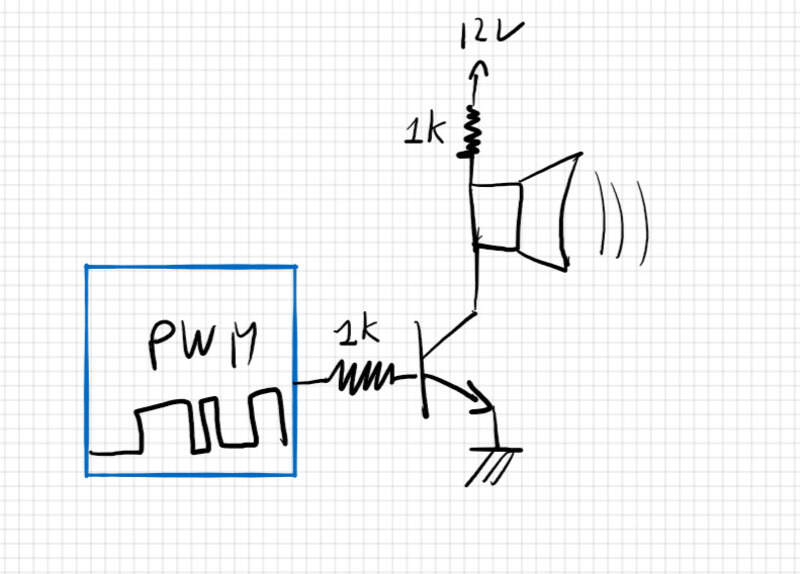
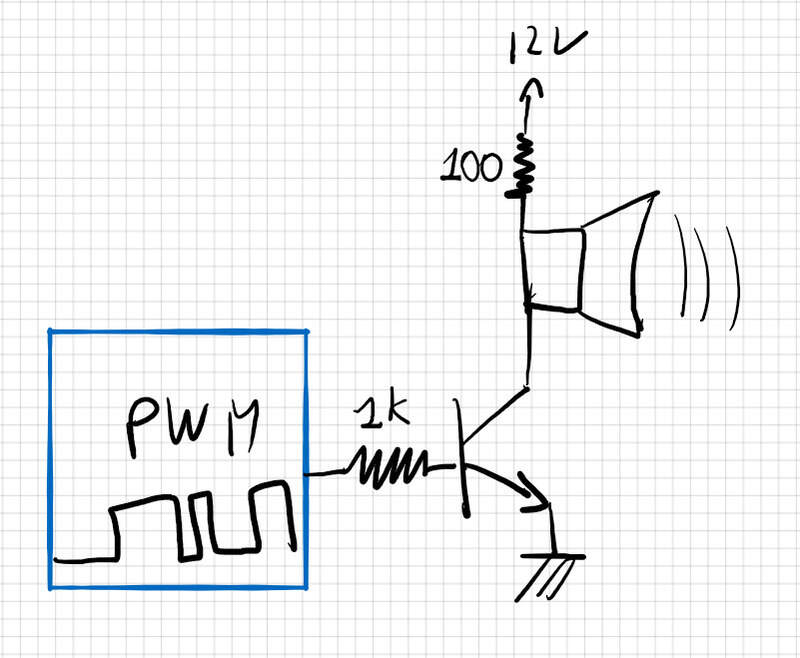
fixed image

diff --git a/docs/modules/module12.md b/docs/modules/module12.md
@@ -211,7 +211,7 @@ Your browser does not support the video tag.
 ### Possible improvement and extension
 With NPN transistors, it would also be possible to multiplex multiple display. We then link each display segments together (a's with a's, b's with b's, ...) and we select the display we want to light up by toggling the corresponding NPN transistor to allow current from the 12V supply to flow. The eye "low-pass filter" will simply let you see all displays light up together even though they toggle real fast. You therefore need 8(7 segments + DP-) +1 per display(selectDisplayPin) pins in total instead of 8 per display.
 
-This requires NPN transitors, as it is impossible to do with PNP (VB should be > 12V which I cannot supply) so I couldn't do it this week but it isn't difficult per se.
+This requires NPN transitors, as it is impossible to do with PNP (VB should be close to 12V which I cannot supply) so I couldn't do it this week but it isn't difficult per se.
 
 
 <figure> <center>
@@ -223,7 +223,7 @@ This requires NPN transitors, as it is impossible to do with PNP (VB should be >
 Finally, I had a speaker lying around so I gave it a try as well.
 To make it work, nothing complicated electrically as it is a simple coil that you make vibrate through a PWM at a set frequency for each note.
 
-Obviously, I needed to power it from 12V as well and the inner resistance of the speaker being 8ohms, I protected it with a 1k resistor and the base resistor is again, like for the first project, 1k as well.
+Obviously, I chose to power it from 12V as well (but it could work with 5V as well, without needing a resistor then) and the inner resistance of the speaker being 8ohms, I protected it with a 100Ohms resistor and the base resistor is again, like for the first project, 1k as well.
 <figure> <center>
   <img src="./../../img/mod12/speakerSchematic.jpg" alt="logo text" width="80%" />
   <figcaption>Final result</figcaption>
